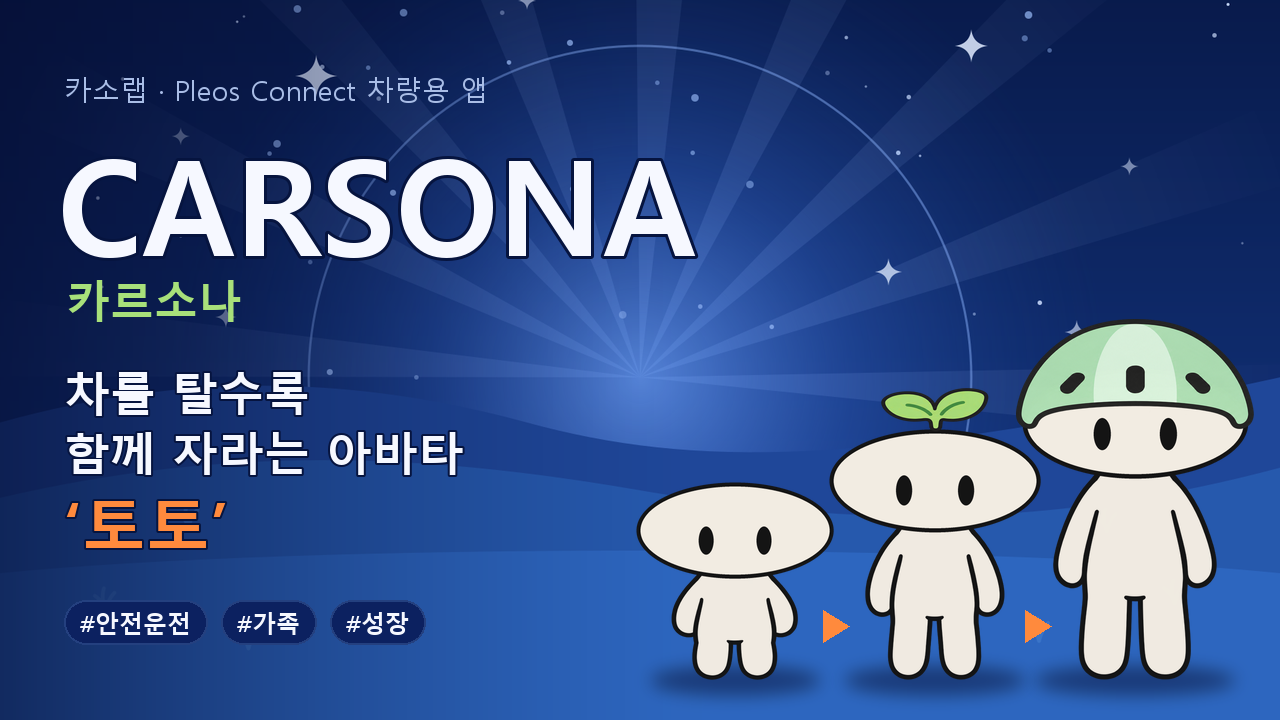
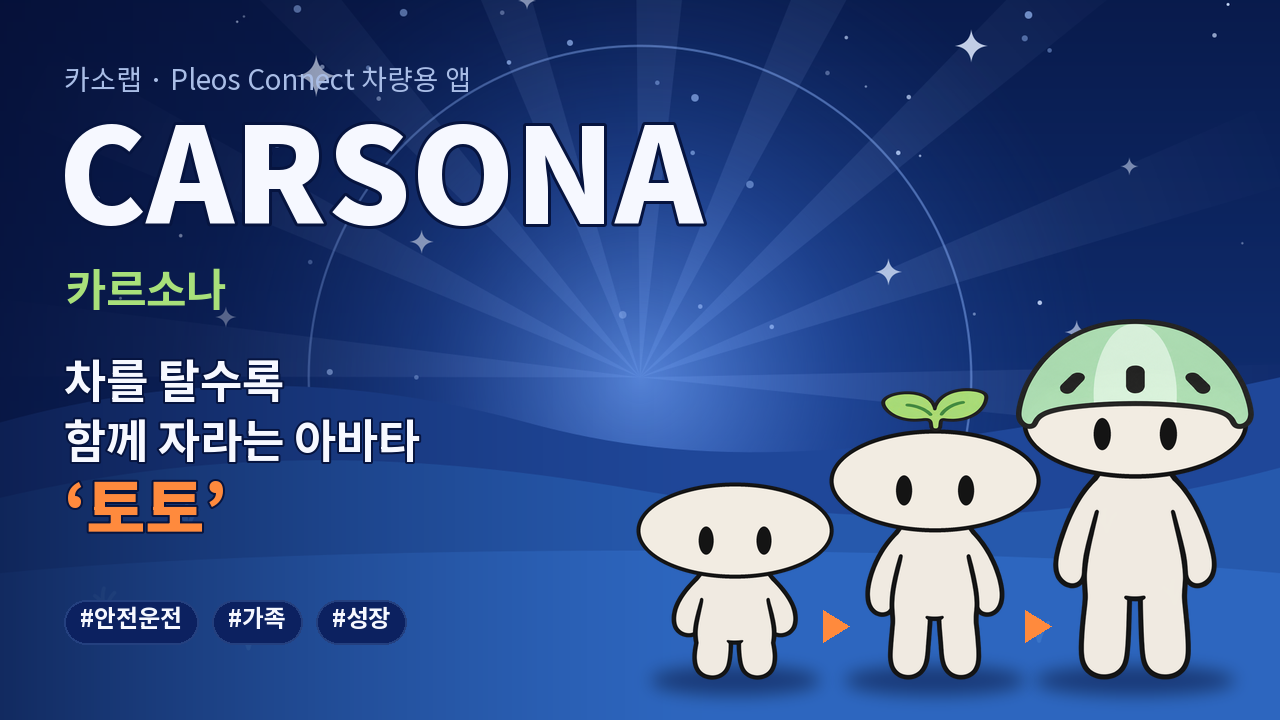
문서 점검 반영: README 폴더 구조·알려진 제한, docs 색인, 썸네일 글꼴(Noto Sans KR)
- README: voice/·저장·시나리오 폴더 설명, 주행 화면 설명, "알려진 제한" 절, 썸네일 글꼴 라이선스
- docs/README.md: 실제 있는 파일 기준으로 다시 씀
- dev2-handoff: reveal_adult / reveal_zero 대사 키 설명
- 썸네일 스크립트: 개인 경로 제거(상대 경로), 글꼴을 Noto Sans KR(OFL)로

Changed region(s): [[0.0312, 0.0917, 0.5625, 0.4583], [0.0312, 0.4889, 0.375, 0.7639], [0.0625, 0.825, 0.3438, 0.9167]]

diff --git a/docs/images/thumbnail/make_thumbnail.py b/docs/images/thumbnail/make_thumbnail.py
@@ -1,79 +1,98 @@
-import json, sys
-from PIL import Image, ImageDraw, ImageFont, ImageFilter
+"""CARSONA 시연 영상 썸네일(1280x720) 만들기.
 
-REPO = r"C:\Users\wonjo\AndroidStudioProjects\CARSONA"
-D = REPO + r"\app\src\main\res\drawable\\"
-OUT = sys.argv[1]
+사용법: python docs/images/thumbnail/make_thumbnail.py [출력 경로]
+- 앱에 들어간 이미지(배경, 토토 3단계, 꾸미기 파츠)만 사용한다.
+- 글꼴: Noto Sans KR (SIL Open Font License). 경로는 환경 변수 NOTO_SANS_KR로 바꿀 수 있다.
+"""
+import json
+import os
+import sys
+
+from PIL import Image, ImageDraw, ImageFilter, ImageFont
+
+HERE = os.path.dirname(os.path.abspath(__file__))
+REPO = os.path.abspath(os.path.join(HERE, "..", "..", ".."))
+DRAWABLE = os.path.join(REPO, "app", "src", "main", "res", "drawable")
+PLACEMENTS = os.path.join(REPO, "app", "src", "main", "assets", "avatar", "placements.json")
+OUT = sys.argv[1] if len(sys.argv) > 1 else os.path.join(HERE, "CARSONA_thumbnail_1280x720.png")
+NOTO = os.environ.get("NOTO_SANS_KR", r"C:\Windows\Fonts\NotoSansKR-VF.ttf")
 W, H = 1280, 720
-FB = r"C:\Windows\Fonts\malgunbd.ttf"
-FR = r"C:\Windows\Fonts\malgun.ttf"
+
+
+def font(size, weight="Bold"):
+    f = ImageFont.truetype(NOTO, size)
+    try:
+        f.set_variation_by_name(weight)  # 가변 글꼴 굵기
+    except Exception:
+        pass
+    return f
+
+
+def drawable(name):
+    return Image.open(os.path.join(DRAWABLE, name + ".png"))
+
 
 # 배경: 성장 공개 배경(빛줄기)을 16:9로 자르기
-bg = Image.open(D + "bg_reveal.png").convert("RGB")
-s = W / bg.width
-bg = bg.resize((W, round(bg.height * s)), Image.LANCZOS)
-top = 150
-canvas = bg.crop((0, top, W, top + H)).convert("RGBA")
+bg = drawable("bg_reveal").convert("RGB")
+bg = bg.resize((W, round(bg.height * W / bg.width)), Image.LANCZOS)
+canvas = bg.crop((0, 150, W, 150 + H)).convert("RGBA")
 
 # 왼쪽 글씨가 잘 보이게 어두운 그라데이션
 shade = Image.new("RGBA", (W, H), (0, 0, 0, 0))
 sd = ImageDraw.Draw(shade)
 for x in range(720):
-    a = int(170 * (1 - x / 720) ** 1.4)
-    sd.line([(x, 0), (x, H)], fill=(4, 12, 48, a))
+    sd.line([(x, 0), (x, H)], fill=(4, 12, 48, int(170 * (1 - x / 720) ** 1.4)))
 canvas = Image.alpha_composite(canvas, shade)
 
-place = json.load(open(REPO + r"\app\src\main\assets\avatar\placements.json", encoding="utf-8"))
+with open(PLACEMENTS, encoding="utf-8") as fp:
+    place = json.load(fp)
+
 
 def toto(stage, part, scale):
-    c = Image.open(D + f"avatar_stage{stage}.png").convert("RGBA")
+    c = drawable(f"avatar_stage{stage}").convert("RGBA")
     if part:
         r = place[f"stage{stage}"][part]
-        p = Image.open(D + f"part_{part}.png").convert("RGBA").resize((r["width"], r["height"]), Image.LANCZOS)
+        p = drawable(f"part_{part}").convert("RGBA").resize((r["width"], r["height"]), Image.LANCZOS)
         c.alpha_composite(p, (r["x"], r["y"]))
     c = c.crop(c.getbbox())
     return c.resize((round(c.width * scale), round(c.height * scale)), Image.LANCZOS)
 
-def shadow_paste(img, cx, base_y):
-    x, y = cx - img.width // 2, base_y - img.height
-    # 발밑 그림자
-    sh = Image.new("RGBA", (W, H), (0, 0, 0, 0))
-    ImageDraw.Draw(sh).ellipse([cx - img.width * 0.42, base_y - 14, cx + img.width * 0.42, base_y + 14], fill=(0, 0, 30, 110))
-    sh = sh.filter(ImageFilter.GaussianBlur(8))
-    canvas.alpha_composite(sh)
-    canvas.alpha_composite(img, (x, y))
 
-BASE = 680
-sc = 0.5
+def paste_with_shadow(img, cx, base_y):
+    sh = Image.new("RGBA", (W, H), (0, 0, 0, 0))
+    ImageDraw.Draw(sh).ellipse(
+        [cx - img.width * 0.42, base_y - 14, cx + img.width * 0.42, base_y + 14], fill=(0, 0, 30, 110))
+    canvas.alpha_composite(sh.filter(ImageFilter.GaussianBlur(8)))
+    canvas.alpha_composite(img, (cx - img.width // 2, base_y - img.height))
+
+
+# 아기(맨머리) → 청소년(새싹) → 성인(헬멧)
 for stage, part, cx in [(0, None, 735), (1, "leaf", 935), (2, "helmet", 1135)]:
-    shadow_paste(toto(stage, part, sc), cx, BASE)
+    paste_with_shadow(toto(stage, part, 0.5), cx, 680)
 
 d = ImageDraw.Draw(canvas)
-# 성장 화살표
-for x0 in (823, 1025):
+for x0 in (823, 1025):  # 성장 화살표
     d.polygon([(x0, 610), (x0 + 26, 626), (x0, 642)], fill=(255, 138, 61, 235))
 
-def text(xy, s, font, fill, stroke=0, sfill=(6, 20, 63)):
-    d.text(xy, s, font=font, fill=fill, stroke_width=stroke, stroke_fill=sfill)
 
-text((64, 70), "카소랩 · Pleos Connect 차량용 앱", ImageFont.truetype(FR, 28), (169, 189, 230))
-text((58, 112), "CARSONA", ImageFont.truetype(FB, 132), (246, 248, 255), 3)
-text((66, 270), "카르소나", ImageFont.truetype(FB, 44), (168, 224, 122))
+def text(xy, s, f, fill, stroke=0):
+    d.text(xy, s, font=f, fill=fill, stroke_width=stroke, stroke_fill=(6, 20, 63))
 
-f = ImageFont.truetype(FB, 46)
-text((64, 360), "차를 탈수록", f, (246, 248, 255), 2)
-text((64, 420), "함께 자라는 아바타", f, (246, 248, 255), 2)
-text((64, 480), "‘토토’", ImageFont.truetype(FB, 64), (255, 138, 61), 2)
 
-# 아래 태그
-tf = ImageFont.truetype(FB, 24)
-tags = ["#안전운전", "#가족", "#성장"]
+text((64, 62), "카소랩 · Pleos Connect 차량용 앱", font(28, "Regular"), (169, 189, 230))
+text((58, 92), "CARSONA", font(132, "Black"), (246, 248, 255), 3)
+text((66, 262), "카르소나", font(44), (168, 224, 122))
+text((64, 352), "차를 탈수록", font(46), (246, 248, 255), 2)
+text((64, 412), "함께 자라는 아바타", font(46), (246, 248, 255), 2)
+text((64, 468), "‘토토’", font(64, "Black"), (255, 138, 61), 2)
+
+tf = font(24)
 tx = 64
-for t in tags:
+for t in ["#안전운전", "#가족", "#성장"]:
     w = d.textlength(t, font=tf)
     d.rounded_rectangle([tx, 600, tx + w + 32, 644], radius=22, fill=(12, 33, 96, 230), outline=(36, 64, 127), width=2)
-    d.text((tx + 16, 606), t, font=tf, fill=(246, 248, 255))
+    d.text((tx + 16, 603), t, font=tf, fill=(246, 248, 255))
     tx += w + 46
 
-canvas.convert("RGB").save(OUT, quality=95)
+canvas.convert("RGB").save(OUT)
 print("saved", OUT)

diff --git a/README.md b/README.md
@@ -49,7 +49,7 @@ Pleos Vehicle SDK (기어·방향지시등·주행거리)
    → CarsonaStore / 화면 : 첫 만남 · 홈 · 주행 중 · 성장 공개 (기어로 자동 전환)
 ```
 
-- 주행 중에는 소리·애니메이션·숫자 없이 한 줄만 보여줘요. 성장과 토토 목소리는 정차(P) 후에만 나와요.
+- 주행 중에는 소리·애니메이션·숫자 없이 짧은 문구만 보여줘요. 성장과 토토 목소리는 정차(P) 후에만 나와요.
 - 서버 없이 차 안(기기 저장소)에만 저장해요. 앱을 껐다 켜도 토토가 그대로 남아요.
 
 ## 폴더 구조
@@ -57,14 +57,21 @@ Pleos Vehicle SDK (기어·방향지시등·주행거리)
 ```
 app/src/main/java/com/carsona/app/
  ├─ vehicle/   차량 신호 → 이벤트 (VehicleDataSource, PleosVehicleSource)
- ├─ model/     아바타 상태 (공통 약속 1)
- ├─ growth/    성장 계산 (GrowthEngine)
+ ├─ model/     아바타 상태 (공통 약속 1), 기기 저장 (AvatarStorage)
+ ├─ growth/    성장 계산 (CarsonaGrowthEngine), 시나리오 재생 (ScenarioVehicleSource)
+ ├─ voice/     토토 목소리 (Pleos TextToSpeech, TotoVoice)
  └─ ui/        화면, 대사
 app/src/main/res/drawable/   avatar_stage0~2.png, bg_default.png, bg_reveal.png, part_*.png
 app/src/main/assets/         dialogues.json, scenarios/*.json
 scripts/                     시연용 주행 스크립트
-docs/                        신호 테스트, 팀 전달 문서
+docs/                        신호 테스트, 팀 전달 문서, 디자인 원본, 영상 썸네일
 ```
+
+## 알려진 제한 (1차 프로토타입)
+
+- 실제 차량 신호로는 기어·방향지시등·주행거리만 받아요. 목적지(성향 계산용)는 1차에서 "회사"로 고정하고, 부드러운 제동은 시나리오 재생에서만 반영해요. 내비게이션 목적지 연동과 제동 감지는 2차에서 붙일 예정이에요.
+- 기어를 D로 바꾸면 Pleos 시스템의 주행 카메라 화면이 잠깐 겹쳐 뜰 수 있어요. 앱이 아니라 차량 기본 기능이에요.
+- 홈 화면의 "시나리오 재생", "처음부터"는 심사·시연용 버튼이에요.
 
 ## 이미지·리소스 출처
 
@@ -72,6 +79,6 @@ docs/                        신호 테스트, 팀 전달 문서
 |---|---|
 | 토토 캐릭터 (아기·청소년·성인 `avatar_stage0~2.png`), 꾸미기 파츠 (헬멧·새싹 `part_*.png`) | 팀 카소랩 자체 제작. 디자이너가 태블릿에 직접 그린 원화를 바탕으로, AI 도구 Claude(Anthropic)로 선과 색을 다듬었어요. Anthropic 이용약관에 따라 생성 결과물의 권리는 사용자에게 있어요. 얼굴의 타원형은 현대자동차 엠블럼의 타원 형태에서 아이디어를 얻은 자체 디자인이며, 실제 로고·상표는 사용하지 않았어요. |
 | 배경 (밤하늘 `bg_default.png`, 성장 공개 `bg_reveal.png`) | 팀 카소랩 디자이너가 정한 배경 콘셉트(밤하늘, 언덕, 성장 순간의 빛줄기)를 AI 도구 Claude(Anthropic)에 설명해 생성한 이미지예요. Anthropic 이용약관에 따라 생성 결과물의 권리는 사용자에게 있어요. 다른 사람의 작품이나 로고·상표는 사용하지 않았어요. |
-| 시연 영상 썸네일 (`docs/images/thumbnail/`) | 위 토토·배경 이미지로 팀 카소랩이 직접 구성 |
+| 시연 영상 썸네일 (`docs/images/thumbnail/`) | 위 토토·배경 이미지로 팀 카소랩이 직접 구성. 글꼴은 Noto Sans KR (SIL Open Font License) |
 | 대사, 시나리오 (`dialogues.json`, `scenarios/*.json`) | 팀 카소랩 자체 작성 |
 | 차량 신호·음성 | Pleos Playground 공식 SDK (Vehicle 2.3.2, TextToSpeech 3.3.1) |

diff --git a/docs/dev2-handoff.md b/docs/dev2-handoff.md
@@ -25,7 +25,7 @@ interface GrowthEngine {
 - 이벤트: `TripStart(destination)`, `TurnSignal`, `Distance(km)`, `SmoothBrake`, `Park`
 - 주행 중 이벤트에서는 화면용 값(`growth` 등)을 바꾸지 않고 이번 주행 값만 쌓아요. 주행 중 화면에는 숫자를 보여주지 않아요.
 - `Park`를 받으면 `growth`, `stage`, `tendency`, `unopenedBox`, `totalKm`, `lastReveal`을 갱신해서 돌려줘요. 화면은 그 직후 성장 공개 화면을 띄워요.
-- `lastReveal.lineKey`는 `stage_up` / `reveal_safe` / `reveal_normal` 중 하나예요. 화면이 `assets/dialogues.json`에서 문장을 골라요.
+- `lastReveal.lineKey`는 `stage_up` / `reveal_safe` / `reveal_normal` 중 하나예요. 화면이 `assets/dialogues.json`에서 문장을 골라요. 다만 다 자란 뒤(성인)에는 `reveal_adult`, 이번 성장이 0이면 `reveal_zero`를 화면이 대신 골라요.
 
 ## 시나리오 재생
 

diff --git a/docs/README.md b/docs/README.md
@@ -1,7 +1,8 @@
-# 문서 (기획, 디자인 2)
+# 문서
 
-- 기획서 최종본, 영상 대본
-- `images/`: 화면 시안, 에뮬레이터 스크린샷, 영상 썸네일
+- `images/design1/`: 토토·꾸미기 파츠 원본과 배치 좌표 (디자인 1)
+- `images/design2/`: 배경 좌표와 꾸미기 미리보기 (디자인 2)
+- `images/thumbnail/`: 시연 영상 썸네일과 만드는 스크립트
 
 개발 문서
 - [signal-test.md](signal-test.md): 에뮬레이터 차량 신호 테스트 결과, Virtual Console 사용법
